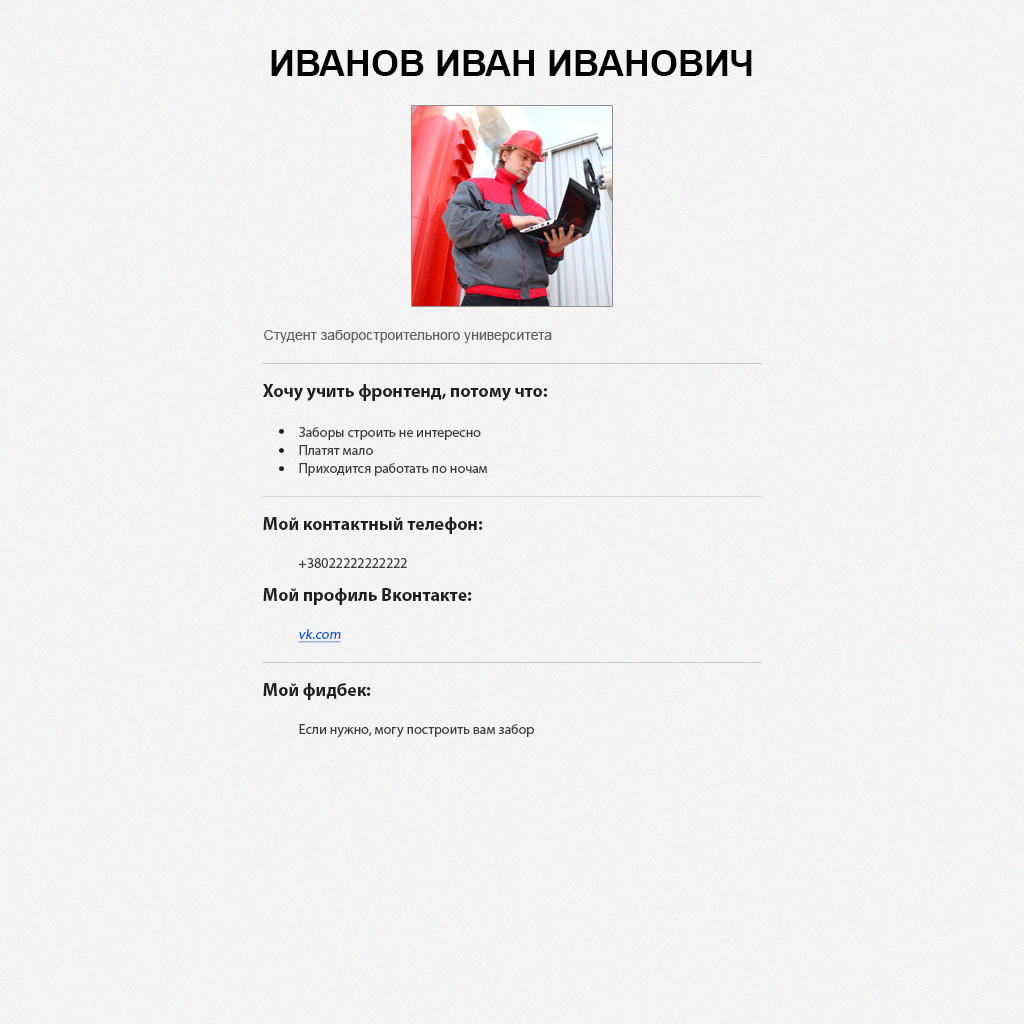
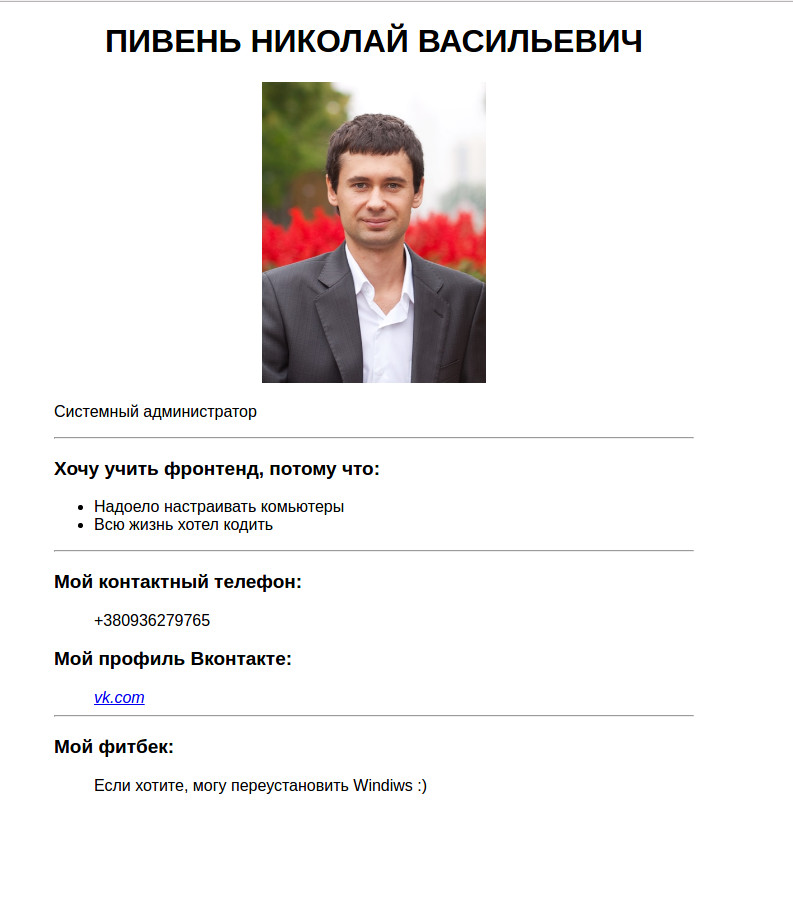
1

Changed region(s): [[0.0605, 0.0, 0.8172, 0.8262], [0.1211, 0.8568, 0.5145, 0.8874]]

diff --git a/htmlcss/index.html b/htmlcss/index.html
@@ -7,7 +7,9 @@
 </head>
 <body>
 
+<center>
 <h1>ПИВЕНЬ НИКОЛАЙ ВАСИЛЬЕВИЧ</h1>
+</center>
 
 <div class="photo"> 
 <center>
@@ -21,7 +23,7 @@
 
 <hr>
 
-<h2>Хочу учить фронтенд, потому что:</h2>
+<h3>Хочу учить фронтенд, потому что:</h3>
 
 <div class="list">
  <ul>
@@ -32,23 +34,19 @@
 
 <hr>
 
-<h2>Мой контактный телефон:</h2>
+<h3>Мой контактный телефон:</h3>
 
-<div class="telephon">
-	<p>+380936279765</p>
-</div>
 
-<h2>Мой профиль Вконтакте:</h2>
-<div class="link">
-  <a href="https://vk.com/id7400669">vk.com</a>
-</div>
+<p class="cont">+380936279765</p>
+
+<h3>Мой профиль Вконтакте:</h3>
+<a class="cont" href="https://vk.com/id7400669">vk.com</a>
 
 <hr>
 
-<h2>Мой фитбек:</h2>
-<div class="fitback">
-	<p>Если хотите, могу переустановить Windiws :)</p>
-</div>
+<h3>Мой фитбек:</h3>
+<p class="cont">Если хотите, могу переустановить Windiws :)</p>
+
 
 </body>
 </html>

diff --git a/htmlcss/style.css b/htmlcss/style.css
@@ -1,18 +1,16 @@
 body{
 	font-family: Arial;
-	margin: 0% 30%;
+	margin: 0% 25%;
 }
 
 .photo img{
-	width: 40%;
-	text-align: center;
+	width: 35%;
 }
 
-.telephon{
-	margin-left: 20px;
+.cont{
+	margin-left: 40px;
 }
 
 
-.link{
+a{
 	font-style: italic;
-}
